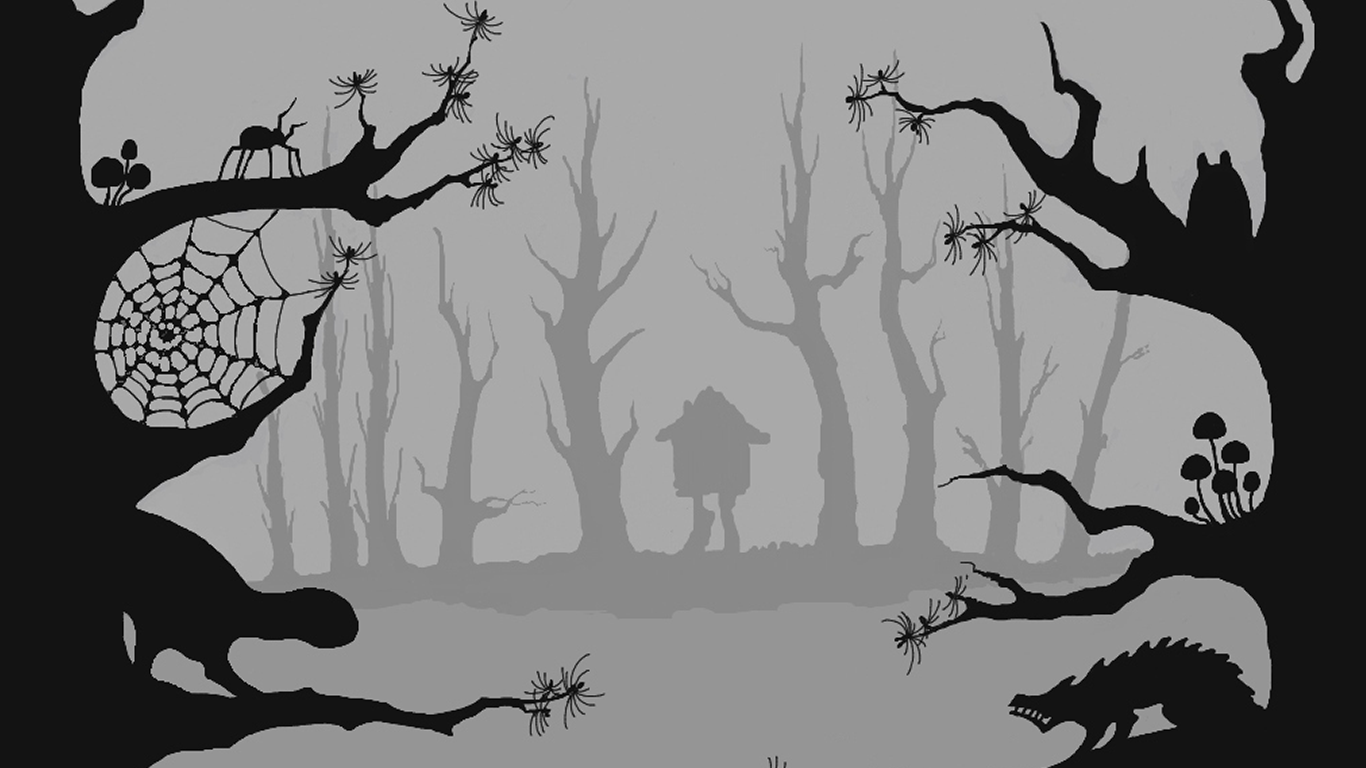
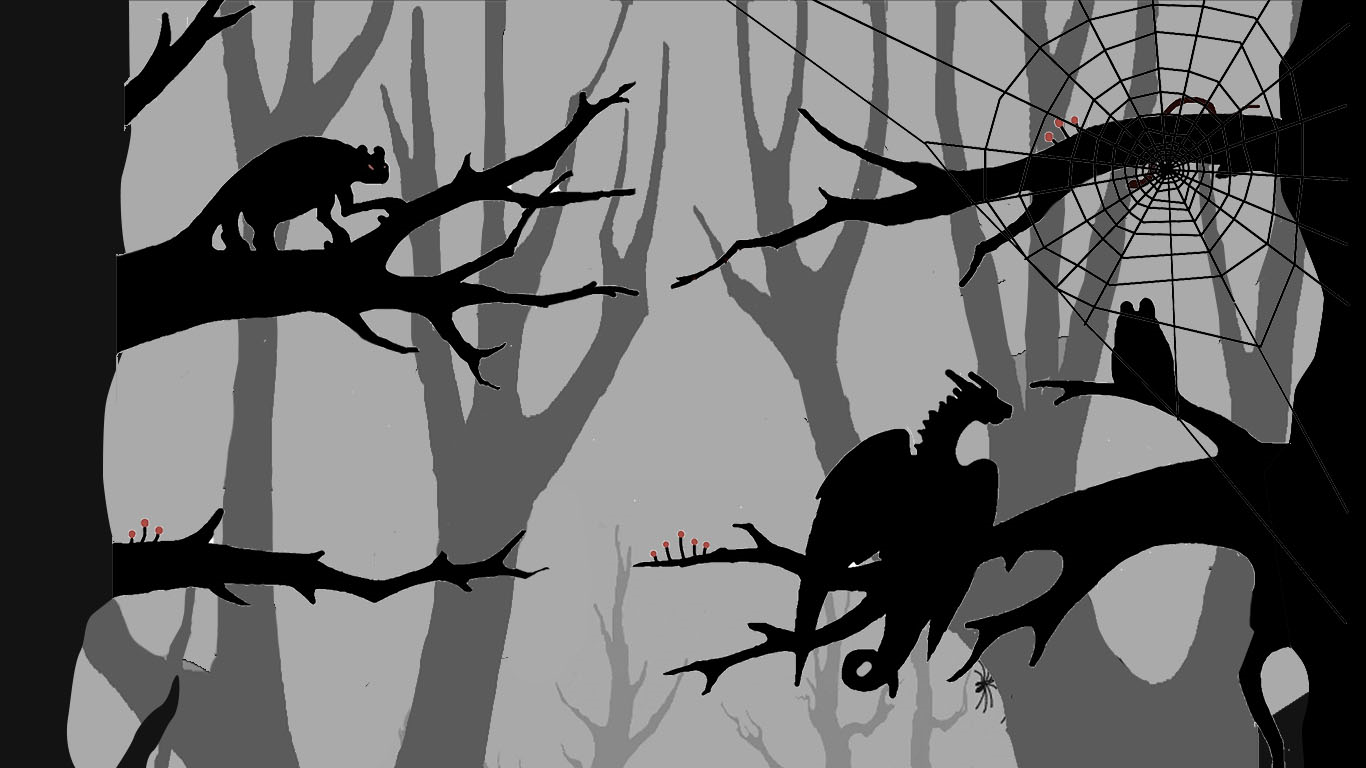
background animation

diff --git a/src/HeroSelection.js b/src/HeroSelection.js
@@ -68,6 +68,10 @@ const BackButton = props => (
 );
 
 
+const BackgroundAnimation = () => (
+    <div className="hero-selection-screen-animation" />
+);
+
 class HeroSelection extends Component {
     constructor(props) {
         super(props);
@@ -77,6 +81,7 @@ class HeroSelection extends Component {
         this.state = {
             hero: null,
             selected: this.defaultHeroID,
+            animation: null,
         };
         this.showHero = this.showHero.bind(this);
         this.changeSelected = this.changeSelected.bind(this);
@@ -86,6 +91,13 @@ class HeroSelection extends Component {
         this.showHeroList = this.showHeroList.bind(this);
         this.showRightHero = this.showRightHero.bind(this);
         this.showLeftHero = this.showLeftHero.bind(this);
+    }
+
+    componentDidMount() {
+        this.setState({ animation: 'background' });
+        setTimeout(() => {
+            this.setState({ animation: null });
+        }, 1000);
     }
 
     showHero() {
@@ -141,40 +153,44 @@ class HeroSelection extends Component {
         // console.log(sortedHeroesList(this.app));
         // console.log(this.state.selected, this.state.hero);
         return (
-            <div className="heroselection-container">
-                <Header
-                    hero={this.state.hero}
-                    prev={this.selectLeftHero}
-                    next={this.selectRightHero}
-                    selected={this.state.selected}
-                    onShow={this.showHero}
-                    // for char details
-                    showNext={this.showRightHero}
-                    showPrev={this.showLeftHero}
-                />
-                <div className={styles.main}>
-                    {this.state.hero
-                        ? (
-                            <OneHero
-                                hero={this.state.hero}
-                            />
-                        ) : (
-                            <ListOfHeroes
-                                app={this.props.app}
-                                onShow={this.showHero}
-                                changeSelected={this.changeSelected}
-                                selected={this.state.selected}
-                            />
-                        )
-                    }
-                </div>
-                <MainMenu sendMessage={this.props.sendMessage} />
-                <Footer
-                    hero={this.state.hero}
-                    selectHero={this.selectHero}
-                    onBack={this.showHeroList}
-                />
-            </div>
+            this.state.animation === 'background' ? <BackgroundAnimation />
+                : (
+                    <div className="heroselection-container">
+                        <Header
+                            hero={this.state.hero}
+                            prev={this.selectLeftHero}
+                            next={this.selectRightHero}
+                            selected={this.state.selected}
+                            onShow={this.showHero}
+                            // for char details
+                            showNext={this.showRightHero}
+                            showPrev={this.showLeftHero}
+                        />
+                        <div className={styles.main}>
+                            {this.state.hero
+                                ? (
+                                    <OneHero
+                                        hero={this.state.hero}
+                                    />
+                                ) : (
+                                    <ListOfHeroes
+                                        app={this.props.app}
+                                        onShow={this.showHero}
+                                        changeSelected={this.changeSelected}
+                                        selected={this.state.selected}
+                                        opponent={!this.props.first}
+                                    />
+                                )
+                            }
+                        </div>
+                        <MainMenu sendMessage={this.props.sendMessage} />
+                        <Footer
+                            hero={this.state.hero}
+                            selectHero={this.selectHero}
+                            onBack={this.showHeroList}
+                        />
+                    </div>
+                )
         );
     }
 }

diff --git a/src/GameScreen.js b/src/GameScreen.js
@@ -24,6 +24,11 @@ class GameScreen extends Component {
     }
 
     componentDidMount() {
+        this.setState({ animation: 'background' });
+        setTimeout(() => {
+            this.setState({ animation: null });
+        }, 1000);
+
         this.startBirds();
     }
 
@@ -79,44 +84,51 @@ class GameScreen extends Component {
     render() {
         const activePlayer = getActivePlayer(this.props.app);
         return (
-            <div className="game-table app-background">
-                {this.props.app.game.players.map(player => (
-                    <Player
-                        item={player.item}
-                        key={player.keyHero}
-                        position={player.position}
-                        player={player}
-                        active={player === activePlayer}
-                        sendMessage={this.props.sendMessage}
-                        dragging={this.state.dragging}
-                        cardDropped={this.cardDropped}
-                        cardDragStarted={this.cardDragStarted}
-                        cardDragEnded={this.cardDragEnded}
-                    />
-                ))}
+            this.state.animation === 'background' ? <BackgroundAnimation />
+                : (
+                    <div className="game-table app-background">
+                        {this.props.app.game.players.map(player => (
+                            <Player
+                                item={player.item}
+                                key={player.keyHero}
+                                position={player.position}
+                                player={player}
+                                sendMessage={this.props.sendMessage}
+                                dragging={this.state.dragging}
+                                cardDropped={this.cardDropped}
+                                cardDragStarted={this.cardDragStarted}
+                                cardDragEnded={this.cardDragEnded}
+                            />
+                        ))}
 
-                {activePlayer.moveCounter === 0
-                    ? (
-                        <ChangeTurn
-                            players={this.props.app.game.players}
-                        />
-                    )
-                    : null}
+                        {((this.props.app.game.players[0].moveCounter === 0) && (this.props.app.game.players[0].active === true))
+                    || ((this.props.app.game.players[1].moveCounter === 0) && (this.props.app.game.players[1].active === true))
+                            ? (
+                                <ChangeTurn
+                                    players={this.props.app.game.players}
+                                />
+                            )
+                            : null}
 
-                {this.props.app.game.phase === 'OVER'
-                    ? (
-                        <GameOver
-                            players={this.props.app.game.players}
-                        />
-                    )
-                    : null}
-                {this.state.animation === 'birds'
-                    ? <BirdsAnimation />
-                    : null}
-            </div>
+                        {this.props.app.game.phase === 'OVER'
+                            ? (
+                                <GameOver
+                                    players={this.props.app.game.players}
+                                />
+                            )
+                            : null}
+                        {this.state.animation === 'birds'
+                            ? <BirdsAnimation />
+                            : null}
+                    </div>
+                )
         );
     }
 }
+
+const BackgroundAnimation = () => (
+    <div className="game-screen-animation" />
+);
 
 const BirdsAnimation = () => (
     <div className="animation-game-screen">

diff --git a/src/css/HeroSelection.css b/src/css/HeroSelection.css
@@ -319,3 +319,22 @@ section {
 	font-size: 22px;
 	width: 450px;
 }
+
+.hero-selection-screen-animation {
+	animation: moveScreen 1s linear 1 forwards;
+	background-image: url("../images/backgrounds/animation1.png");
+	background-repeat: no-repeat;
+	height: 768px;
+}
+
+@keyframes moveScreen {
+	0% {
+		background-position: 0 100%;
+	}
+	45% {
+		background-position: 0 50%;
+	}
+	85% {
+		background-position: 0 0;
+	}
+}

diff --git a/src/css/GameScreen.css b/src/css/GameScreen.css
@@ -727,3 +727,10 @@
         transform: rotate(180deg) translateX(1190px);
     }
 }
+
+.game-screen-animation {
+    animation: moveScreen 1s linear 1 forwards;
+    background-image: url("../images/backgrounds/animation2.png");
+    background-repeat: no-repeat;
+	height: 768px;
+}

diff --git a/src/css/VersusScreen.css b/src/css/VersusScreen.css
@@ -1,7 +1,7 @@
 /* versus */
 
 .versus-screen-container {
-    background: #000 url("../images/start_screen.jpg") no-repeat;
+    background: #000 url("../images/background.png") no-repeat;
     background-size: cover;
     bottom: 0;
     left: 0;
